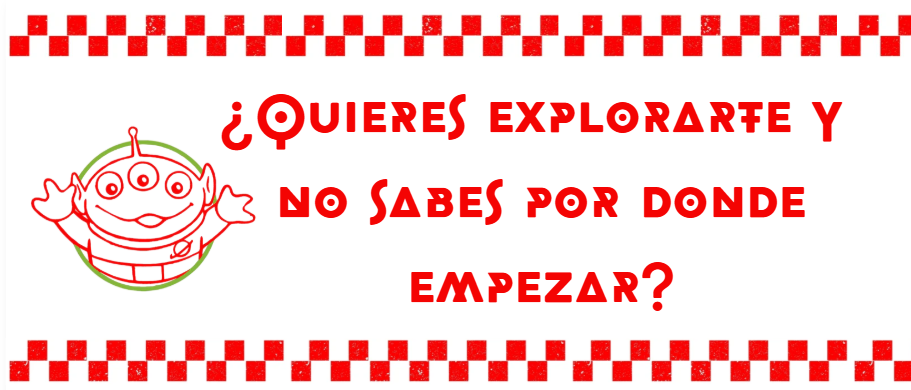
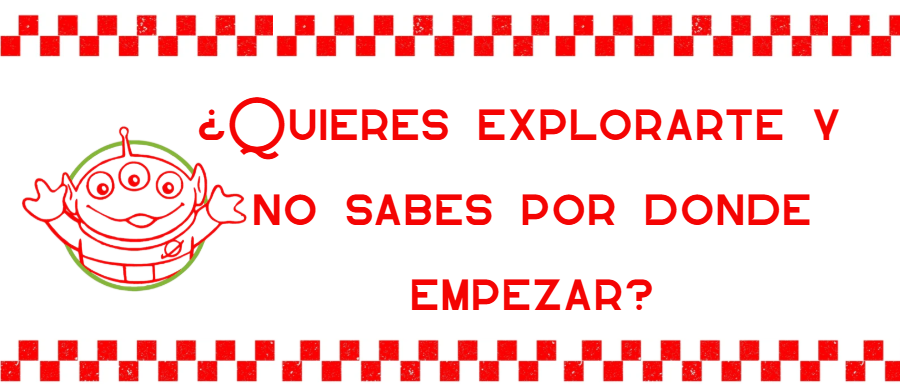
feat(explora): fondo cosmico oscuro, cartel ampliado con cadenas y marco, 3 posters regados, pulsador arcade retro y maquina arcade elevada

diff --git a/front/src/pages/Explora.jsx b/front/src/pages/Explora.jsx
@@ -6,14 +6,14 @@ import { CATALOGO_REAL } from '../data/catalogoProductos';
 
 // Franja a cuadros rojos y blancos idéntica a la del cartel oficial de Pizza Planet
 const CheckeredStripe = () => (
-  <div 
-    className="w-full h-4 sm:h-5 shrink-0" 
+  <div
+    className="w-full h-4 sm:h-5 shrink-0"
     style={{
       backgroundImage: 'linear-gradient(45deg, #E52521 25%, transparent 25%), linear-gradient(-45deg, #E52521 25%, transparent 25%), linear-gradient(45deg, transparent 75%, #E52521 75%), linear-gradient(-45deg, transparent 75%, #E52521 75%)',
       backgroundSize: '16px 16px',
       backgroundPosition: '0 0, 0 8px, 8px -8px, -8px 0px',
       backgroundColor: '#ffffff'
-    }} 
+    }}
   />
 );
 
@@ -280,10 +280,10 @@ export default function Explora() {
               opacity: p.opacity
             }}
           >
-            <img 
-              src="/images/rodaja_pizza.png" 
+            <img
+              src="/images/rodaja_pizza.png"
               alt="Rodaja de Pizza Planet"
-              className="w-full h-auto object-contain filter drop-shadow-xs" 
+              className="w-full h-auto object-contain filter drop-shadow-xs"
             />
           </div>
         ))}
@@ -291,105 +291,171 @@ export default function Explora() {
 
       {/* =========================================================================
           CONTENEDOR PRINCIPAL: ESPACIADO FLUIDO IDÉNTICO A LAS DEMÁS PÁGINAS
-          Con altura completa para que el cartel quede en la pared y la máquina en el suelo
+          Con vibra retro-futurista Pizza Planet original: cartel, posters y arcade
           ========================================================================= */}
-      <div className="relative z-10 w-full max-w-6xl mx-auto px-4 sm:px-6 md:px-8 pt-20 sm:pt-24 md:pt-28 pb-4 font-fredoka select-none flex-1 flex flex-col justify-between items-center min-h-[calc(100vh-80px)]">
-        
+      <div className="relative z-10 w-full max-w-7xl mx-auto px-4 sm:px-6 md:px-8 pt-20 sm:pt-24 md:pt-28 pb-8 font-fredoka select-none flex-1 flex flex-col justify-between items-center min-h-[calc(100vh-80px)]">
+
         {/* =====================================================================
-            1. ZONA PARED: CARTEL REDIMENSIONADO + CUADRO COHETE PIZZA PLANET
-            Ambos ubicados sobre el tapiz verde alien con espacio de sobra de la navbar
+            1. ZONA PARED: CARTEL HANGING SIGN + 3 POSTERS REGADOS EN LA PARED
             ===================================================================== */}
-        <div className="w-full flex flex-col md:flex-row items-center justify-center gap-4 sm:gap-6 md:gap-8 lg:gap-12 mt-2 mb-4">
+        <div className="w-full flex flex-col items-center mt-2 mb-6">
           
-          {/* Cartel más pequeño y proporcionado */}
-          <div className="w-full max-w-[420px] sm:max-w-[480px] md:max-w-[530px] flex justify-center transition-transform hover:scale-[1.01] duration-300">
-            <img 
-              src="/images/cartel_aliens.png" 
-              onError={(e) => { e.target.src = '/images/letrero_aliens.png'; }}
-              alt="¿Quieres explorarte y no sabes por dónde empezar? - Pizza Planet"
-              className="w-full h-auto object-contain drop-shadow-[0_15px_35px_rgba(0,0,0,0.25)] rounded-2xl sm:rounded-3xl border-2 border-white/80"
-            />
+          <div className="w-full flex flex-col lg:flex-row items-center justify-center gap-6 lg:gap-8 xl:gap-10">
+
+            {/* POSTER 1 (Izquierda superior) */}
+            <div className="hidden lg:block shrink-0 transition-all duration-300 hover:rotate-0 hover:scale-105 cursor-pointer -rotate-3 self-center">
+              <div className="p-2 sm:p-2.5 bg-white/95 rounded-2xl shadow-[0_20px_45px_rgba(0,0,0,0.7)] border-2 border-slate-300/40">
+                <img 
+                  src="/images/cuadro_aliens.png" 
+                  alt="Poster Cohete Pizza Planet"
+                  className="w-44 xl:w-52 h-auto object-contain rounded-xl"
+                />
+              </div>
+            </div>
+
+            {/* CARTEL PRINCIPAL HANGING SIGN CON CADENAS Y REMACHES */}
+            <div className="relative flex flex-col items-center w-full max-w-[560px] sm:max-w-[640px] md:max-w-[700px] lg:max-w-[740px]">
+              
+              {/* Cadenas metálicas de suspensión retro arcade */}
+              <div className="w-full flex justify-between px-14 sm:px-20 -mb-3 z-10 pointer-events-none">
+                <div className="w-2.5 h-10 sm:h-12 bg-gradient-to-b from-slate-400 via-slate-600 to-slate-800 rounded-sm shadow-md border border-slate-900/60"></div>
+                <div className="w-2.5 h-10 sm:h-12 bg-gradient-to-b from-slate-400 via-slate-600 to-slate-800 rounded-sm shadow-md border border-slate-900/60"></div>
+              </div>
+
+              {/* Marco arcade oscuro con remaches y neón sutil */}
+              <div className="w-full p-2 sm:p-2.5 bg-gradient-to-b from-[#2a2d3d] via-[#1a1c26] to-[#0e1017] rounded-3xl shadow-[0_25px_60px_rgba(0,0,0,0.85),0_0_35px_rgba(229,37,33,0.3)] border-2 border-slate-700/80 relative transition-transform hover:scale-[1.01] duration-300">
+                
+                {/* Remaches metálicos en las 4 esquinas */}
+                <div className="absolute top-3 left-3 w-3.5 h-3.5 rounded-full bg-gradient-to-tr from-slate-500 via-slate-300 to-white border border-slate-600 shadow-inner z-20"></div>
+                <div className="absolute top-3 right-3 w-3.5 h-3.5 rounded-full bg-gradient-to-tr from-slate-500 via-slate-300 to-white border border-slate-600 shadow-inner z-20"></div>
+                <div className="absolute bottom-3 left-3 w-3.5 h-3.5 rounded-full bg-gradient-to-tr from-slate-500 via-slate-300 to-white border border-slate-600 shadow-inner z-20"></div>
+                <div className="absolute bottom-3 right-3 w-3.5 h-3.5 rounded-full bg-gradient-to-tr from-slate-500 via-slate-300 to-white border border-slate-600 shadow-inner z-20"></div>
+
+                <img 
+                  src="/images/cartel_aliens.png?v=2" 
+                  onError={(e) => { e.target.src = '/images/letrero_aliens.png'; }}
+                  alt="¿Quieres explorarte y no sabes por dónde empezar? - Pizza Planet"
+                  className="w-full h-auto object-contain rounded-2xl"
+                />
+              </div>
+
+            </div>
+
+            {/* POSTER 2 (Derecha superior) */}
+            <div className="hidden lg:block shrink-0 transition-all duration-300 hover:rotate-0 hover:scale-105 cursor-pointer rotate-3 self-center">
+              <div className="p-2 sm:p-2.5 bg-white/95 rounded-2xl shadow-[0_20px_45px_rgba(0,0,0,0.7)] border-2 border-slate-300/40">
+                <img 
+                  src="/images/cuadro_aliens2.jpg" 
+                  alt="Poster Retro Pizza Planet Space"
+                  className="w-44 xl:w-52 h-auto object-contain rounded-xl"
+                />
+              </div>
+            </div>
+
           </div>
 
-          {/* Cuadro de Pizza Planet colgado en la pared al lado del cartel */}
-          <div className="shrink-0 flex justify-center transition-all duration-300 hover:rotate-0 hover:scale-105 cursor-pointer">
-            <div className="relative rotate-2 drop-shadow-[0_15px_25px_rgba(0,0,0,0.3)]">
-              <img 
-                src="/images/cuadro_aliens.png" 
-                alt="Cuadro Cohete Pizza Planet"
-                className="w-28 sm:w-36 md:w-40 lg:w-44 h-auto object-contain rounded-xl"
-              />
+          {/* POSTERS REGADOS EN LA PARED (Visibles en todas las pantallas con rotaciones lúdicas) */}
+          <div className="w-full flex items-center justify-center lg:justify-start gap-4 sm:gap-8 mt-5 px-4 max-w-4xl">
+            {/* En móviles mostramos Poster 1 aquí */}
+            <div className="lg:hidden shrink-0 transition-all duration-300 hover:rotate-0 hover:scale-105 -rotate-3 cursor-pointer">
+              <div className="p-1.5 sm:p-2 bg-white/95 rounded-xl shadow-lg border border-slate-300/40">
+                <img 
+                  src="/images/cuadro_aliens.png" 
+                  alt="Poster Cohete Pizza Planet"
+                  className="w-28 sm:w-36 h-auto object-contain rounded-lg"
+                />
+              </div>
+            </div>
+
+            {/* POSTER 3: Regado en la pared */}
+            <div className="shrink-0 transition-all duration-300 hover:rotate-0 hover:scale-105 cursor-pointer rotate-2 lg:-rotate-2 lg:ml-16">
+              <div className="p-2 sm:p-2.5 bg-white/95 rounded-2xl shadow-[0_20px_45px_rgba(0,0,0,0.7)] border-2 border-slate-300/40">
+                <img 
+                  src="/images/cuadro_aliens3.png" 
+                  alt="Poster Marcianitos Pizza Planet"
+                  className="w-32 sm:w-40 lg:w-48 xl:w-52 h-auto object-contain rounded-xl"
+                />
+              </div>
+            </div>
+
+            {/* En móviles mostramos Poster 2 aquí */}
+            <div className="lg:hidden shrink-0 transition-all duration-300 hover:rotate-0 hover:scale-105 rotate-3 cursor-pointer">
+              <div className="p-1.5 sm:p-2 bg-white/95 rounded-xl shadow-lg border border-slate-300/40">
+                <img 
+                  src="/images/cuadro_aliens2.jpg" 
+                  alt="Poster Retro Pizza Planet Space"
+                  className="w-28 sm:w-36 h-auto object-contain rounded-lg"
+                />
+              </div>
             </div>
           </div>
 
         </div>
 
         {/* =====================================================================
-            2. ZONA CENTRAL: EL GRAN BOTÓN ROJO 3D ("PRESIONAR AQUÍ")
+            2. ZONA CENTRAL: BOTÓN RETRO ARCADE 1990s ("PRESIONAR AQUÍ")
+            Inspirado en los pulsadores mecánicos originales de Pizza Planet
             ===================================================================== */}
-        <div className="flex flex-col items-center my-auto py-2">
+        <div className="flex flex-col items-center my-auto py-4">
 
-          {/* Aro exterior metálico / cromado */}
-          <div className="w-44 h-44 sm:w-52 sm:h-52 md:w-56 md:h-56 rounded-full bg-gradient-to-b from-slate-200 via-slate-400 to-slate-700 p-3.5 sm:p-4 shadow-[0_20px_50px_rgba(0,0,0,0.4)] flex items-center justify-center border-2 border-slate-300/80">
+          {/* Bisel/carcasa circular negra de arcade tradicional */}
+          <div className="w-48 h-48 sm:w-56 sm:h-56 rounded-full bg-[#18181b] border-4 sm:border-[6px] border-[#27272a] shadow-[0_20px_45px_rgba(0,0,0,0.9),inset_0_3px_6px_rgba(255,255,255,0.15)] flex items-center justify-center p-3 sm:p-4 relative">
 
-            {/* Aro de advertencia neón rojo */}
-            <div className="w-full h-full rounded-full bg-slate-900 flex items-center justify-center ring-4 ring-[#E52521]/40 p-2 sm:p-2.5">
+            {/* Aro interior de encaje del pulsador */}
+            <div className="w-full h-full rounded-full bg-[#09090b] p-2 flex items-center justify-center border-2 border-black shadow-inner">
 
-              {/* CÚPULA 3D DEL BOTÓN ROJO TÁCTIL */}
+              {/* CÚPULA CONVEXA ROJO CEREZA ARCADE */}
               <button
                 type="button"
                 onClick={handlePulsarBotonRojo}
-                className={`w-full h-full rounded-full bg-gradient-to-b from-[#ff3834] via-[#E52521] to-[#991b1b] text-white font-black flex flex-col items-center justify-center text-center cursor-pointer transition-all duration-200 shadow-[inset_0_8px_16px_rgba(255,255,255,0.5),0_15px_30px_rgba(153,27,27,0.7)] animate-red-button-glow ${
+                className={`w-full h-full rounded-full bg-gradient-to-b from-[#ff3834] via-[#d61e1b] to-[#7f1d1d] text-white font-black flex flex-col items-center justify-center text-center cursor-pointer transition-all duration-150 shadow-[inset_0_6px_12px_rgba(255,255,255,0.45),0_10px_20px_rgba(0,0,0,0.6)] animate-red-button-glow ${
                   isPressingBtn 
-                    ? 'scale-90 translate-y-3 shadow-inner' 
-                    : 'hover:scale-105 active:scale-95 active:translate-y-2'
+                    ? 'scale-90 translate-y-2 shadow-[inset_0_6px_14px_rgba(0,0,0,0.85)]' 
+                    : 'hover:scale-[1.03] active:scale-95 active:translate-y-2'
                 }`}
-                title="Presionar aquí para abrir el quizz"
+                title="Presionar aquí para abrir la trivia"
               >
-                <span className="text-lg sm:text-2xl md:text-2xl font-black uppercase tracking-wider drop-shadow-md leading-tight">
+                {/* Reflejo superior de la cúpula */}
+                <div className="w-20 h-3 bg-white/25 rounded-full blur-[1px] -mt-1 mb-1"></div>
+
+                <span className="text-xl sm:text-2xl font-black uppercase tracking-wider drop-shadow-md leading-tight">
                   PRESIONAR
                 </span>
-                <span className="text-lg sm:text-2xl md:text-2xl font-black uppercase tracking-wider drop-shadow-md leading-tight">
+                <span className="text-xl sm:text-2xl font-black uppercase tracking-wider drop-shadow-md leading-tight">
                   AQUÍ
                 </span>
-                <span className="text-[9px] sm:text-[10px] font-bold tracking-widest text-red-200 mt-0.5 uppercase opacity-90">
-                  INICIAR QUIZZ
-                </span>
+
+                {/* Placa retro arcade amarilla */}
+                <div className="mt-1.5 px-2.5 py-0.5 rounded-full bg-black/60 border border-amber-400/80">
+                  <span className="text-[9px] sm:text-[10px] font-mono font-bold tracking-widest text-amber-300 uppercase">
+                    1 JUGADOR • START
+                  </span>
+                </div>
               </button>
 
             </div>
 
           </div>
 
+          <span className="text-[11px] font-black uppercase tracking-widest text-slate-400 mt-2 opacity-80">
+            PIZZA PLANET ARCADE • TEST SENSORIAL
+          </span>
+
         </div>
 
         {/* =====================================================================
-            3. ZONA SUELO DE MADERA: MÁQUINA DE LA GARRA CON ALIENS ADENTRO
-            Ubicada exactamente en el suelo de madera, tal como los juguetes en Inicio
+            3. ZONA SUELO: MÁQUINA DE LA GARRA ARCADE (MÁS GRANDE Y MÁS ARRIBA)
             ===================================================================== */}
-        <div className="w-full flex items-end justify-between sm:justify-end px-2 sm:px-8 mt-2 pb-2">
+        <div className="w-full flex justify-center sm:justify-end px-4 sm:px-12 -translate-y-12 sm:-translate-y-18 md:-translate-y-24 lg:-translate-y-28 pointer-events-auto">
           
-          {/* Diálogo de los marcianitos */}
-          <div className="hidden sm:flex items-center gap-3 bg-white/95 border-2 border-slate-200 rounded-2xl p-2.5 sm:p-3 max-w-xs shadow-lg backdrop-blur-md mb-4 mr-4">
-            <img
-              src="/images/aliens_friends.png"
-              alt="Marcianitos Pizza Planet"
-              className="w-10 sm:w-12 h-auto object-contain shrink-0"
-            />
-            <p className="text-[11px] sm:text-xs text-[#1e3a8a] font-bold italic leading-tight">
-              “¡Ooooh! ¡Nuestra máquina de La Garra en el suelo! Pulsa el botón para tu viaje sensorial.”
-            </p>
-          </div>
-
-          {/* Máquina de los Aliens en el suelo */}
-          <div className="relative group transition-transform duration-300 hover:scale-105 cursor-pointer ml-auto">
+          <div className="relative group transition-transform duration-300 hover:scale-105 cursor-pointer">
             <img 
               src="/images/maquina_aliens.png" 
               alt="Máquina de Marcianitos Pizza Planet"
-              className="w-36 sm:w-48 md:w-56 lg:w-64 h-auto object-contain drop-shadow-[0_15px_30px_rgba(0,0,0,0.55)]"
+              className="w-56 sm:w-72 md:w-84 lg:w-96 xl:w-[410px] h-auto object-contain drop-shadow-[0_25px_40px_rgba(0,0,0,0.7)]"
             />
-            {/* Sombra de contacto realista en la madera */}
-            <div className="absolute -bottom-1 left-1/2 -translate-x-1/2 w-4/5 h-3 bg-black/50 blur-md rounded-full pointer-events-none"></div>
+            {/* Sombra de contacto realista en el piso */}
+            <div className="absolute -bottom-2 left-1/2 -translate-x-1/2 w-4/5 h-4 bg-black/70 blur-xl rounded-full pointer-events-none"></div>
           </div>
 
         </div>
@@ -404,7 +470,7 @@ export default function Explora() {
         <div className="fixed inset-0 z-[300] bg-black/75 backdrop-blur-md flex items-center justify-center p-3 sm:p-6 animate-in fade-in duration-200 select-none font-fredoka">
 
           <div className="relative w-full max-w-2xl bg-white rounded-[2rem] sm:rounded-[2.5rem] border-4 sm:border-[6px] border-[#E52521] shadow-[0_25px_80px_rgba(229,37,33,0.35)] overflow-hidden flex flex-col justify-between max-h-[92vh]">
-            
+
             {/* FRANJA SUPERIOR A CUADROS ROJOS Y BLANCOS (IDÉNTICA AL CARTEL) */}
             <CheckeredStripe />
 
@@ -423,7 +489,7 @@ export default function Explora() {
               {!mostrarResultados ? (
                 /* ================= MODO PREGUNTAS (1 A 7) ================= */
                 <div className="flex flex-col items-center">
-                  
+
                   {/* Cabecera con Fase y Progreso */}
                   <div className="text-center w-full mb-6">
                     <div className="flex items-center justify-between text-xs font-black text-[#E52521] uppercase tracking-widest mb-2 px-1">
@@ -438,7 +504,7 @@ export default function Explora() {
 
                     {/* Barra de progreso en rojo Pizza Planet */}
                     <div className="w-full bg-slate-100 h-2.5 rounded-full overflow-hidden border border-slate-200 p-0.5">
-                      <div 
+                      <div
                         className="h-full bg-gradient-to-r from-red-500 via-rose-500 to-[#E52521] rounded-full transition-all duration-300 shadow-xs"
                         style={{ width: `${((preguntaActual + 1) / 7) * 100}%` }}
                       ></div>
@@ -480,7 +546,7 @@ export default function Explora() {
               ) : (
                 /* ================= MODO RESULTADOS: RECOMENDACIÓN DE PRODUCTOS Y LENCERÍA ================= */
                 <div className="flex flex-col items-center animate-in fade-in zoom-in-95 duration-300">
-                  
+
                   {/* Cabecera del Resultado */}
                   <div className="text-center mb-6">
                     <span className="inline-block px-3.5 py-1 rounded-full bg-red-50 border border-red-200 text-[#E52521] text-[11px] font-black tracking-widest uppercase mb-2">
@@ -500,7 +566,7 @@ export default function Explora() {
                       Secciones recomendadas:
                     </span>
                     {recomendacion.categorias.map((cat, idx) => (
-                      <span 
+                      <span
                         key={idx}
                         className="px-3 py-1 rounded-full bg-red-50 text-[#E52521] border border-red-300 text-xs font-black uppercase shadow-2xs"
                       >
@@ -512,14 +578,14 @@ export default function Explora() {
                   {/* Tarjetas de los 3 productos recomendados de CATALOGO_REAL */}
                   <div className="grid grid-cols-1 sm:grid-cols-3 gap-3.5 w-full mb-6">
                     {recomendacion.productos.map(p => (
-                      <div 
+                      <div
                         key={p.id}
                         className="bg-slate-50/80 rounded-2xl border-2 border-slate-200 p-3 flex flex-col justify-between text-center group hover:border-[#E52521] transition shadow-xs"
                       >
                         <div className="w-full h-28 rounded-xl bg-white flex items-center justify-center p-2 mb-2 group-hover:scale-105 transition-transform overflow-hidden shadow-2xs">
-                          <img 
-                            src={p.imagen} 
-                            alt={p.nombre} 
+                          <img
+                            src={p.imagen}
+                            alt={p.nombre}
                             className="max-h-full max-w-full object-contain drop-shadow-sm"
                           />
                         </div>

diff --git a/front/src/components/RoomWrapper.jsx b/front/src/components/RoomWrapper.jsx
@@ -103,9 +103,9 @@ export default function RoomWrapper({
         };
       case 'aliens':
         return {
-          wall: 'bg-[#4DBA2D]', // Verde Alien vibrante oficial idéntico al logo corazon_alien.png
+          wall: 'bg-[#1E1B4B]', // Azul noche cósmico Marcianos (Pizza Planet retro original)
           floor: 'bg-[#B45309]',
-          accent: 'border-[#4DBA2D]',
+          accent: 'border-[#1E1B4B]',
           wallpaper: '',
         };
       case 'lotso':
